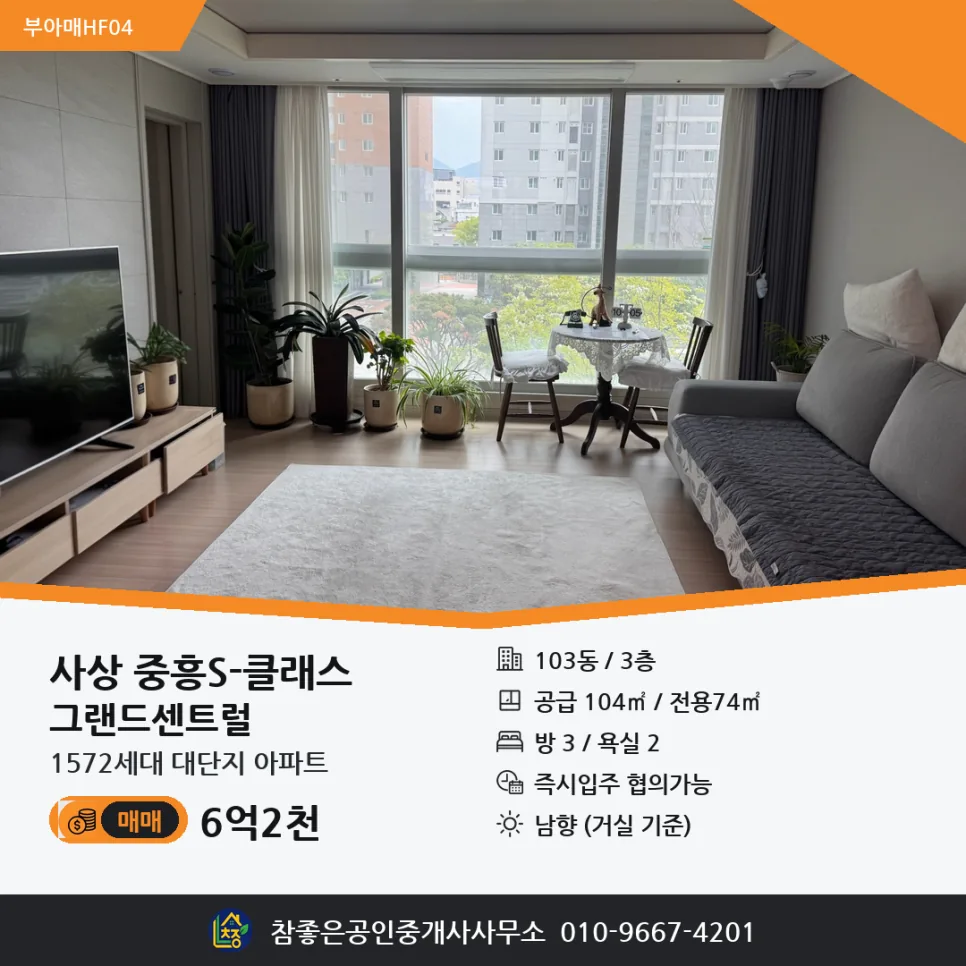
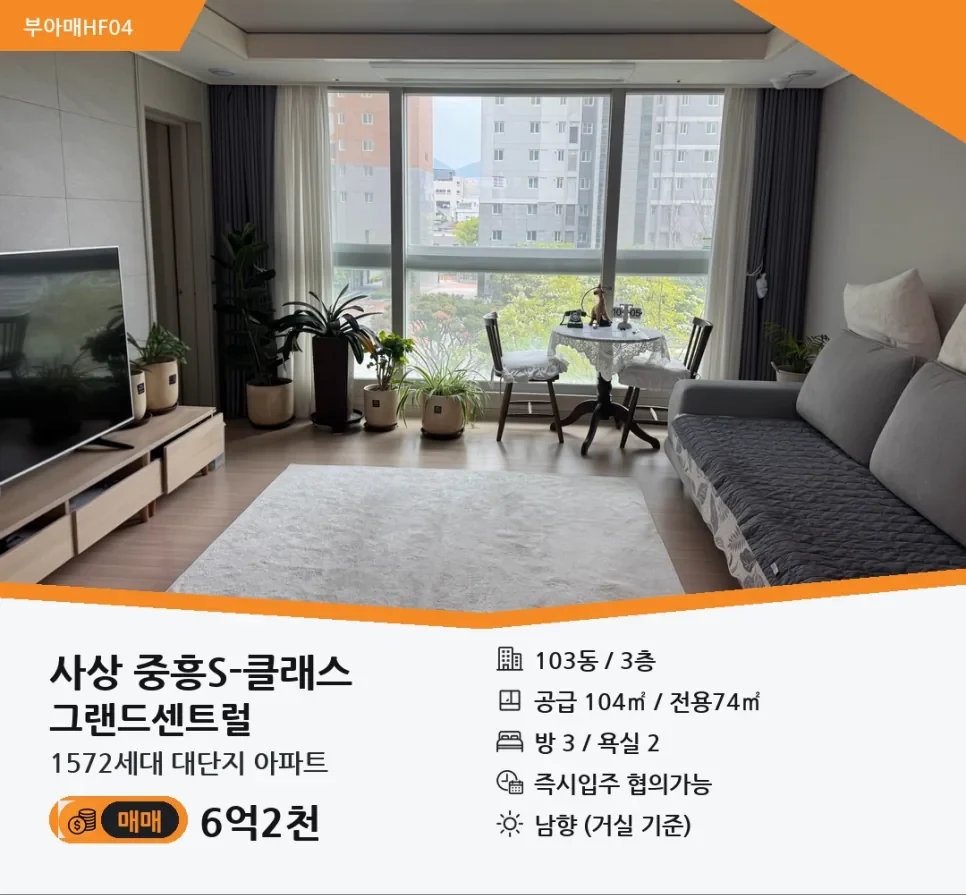
feat: 블로그 최신순 정렬 및 6개 페이징 추가, 매물 썸네일 하단 중복 검은 바 크롭 및 카드 중복 스펙 칩 삭제

diff --git a/main.js b/main.js
@@ -39,7 +39,9 @@
     activeReviewCat: 'all',
     activeBlogTab: 'all',
     propCurrentPage: 1,
-    propPageSize: 6
+    propPageSize: 6,
+    blogCurrentPage: 1,
+    blogPageSize: 6
   };
 
   // SVG Helper Icons
@@ -338,11 +340,6 @@
                 ${item.price}
                 <span class="prop-price-sub">${item.floor || ''}</span>
               </div>
-              <div class="prop-quick-specs">
-                <span class="spec-chip">📐 ${item.area}</span>
-                ${item.rooms ? `<span class="spec-chip">🚪 ${item.rooms}</span>` : ''}
-                ${item.direction ? `<span class="spec-chip">🧭 ${item.direction.split('(')[0].trim()}</span>` : ''}
-              </div>
               ${item.agentNickname ? `
                 <div class="prop-card-agent-badge">
                   <span>🏷 담당: <strong>${item.agentNickname}</strong></span>
@@ -434,7 +431,7 @@
     }).join('');
   }
 
-  // 2. Render Naver Blog Posts (썸네일 + 요약내용 + 태그 및 카테고리 필터링)
+  // 2. Render Naver Blog Posts (썸네일 + 요약내용 + 태그 및 카테고리 필터링 + 6개 페이징)
   function renderBlogPosts() {
     if (!blogGrid) return;
 
@@ -443,7 +440,51 @@
       posts = posts.filter(p => p.section === state.activeBlogTab);
     }
 
-    blogGrid.innerHTML = posts.map(post => `
+    // 업로드 최신순(날짜 및 logNo 역순) 정렬
+    posts = [...posts].sort((a, b) => (b.date || '').localeCompare(a.date || ''));
+
+    const totalPages = Math.ceil(posts.length / state.blogPageSize) || 1;
+    if (state.blogCurrentPage > totalPages) {
+      state.blogCurrentPage = 1;
+    }
+
+    // Render Blog Pagination Controls
+    const blogPagination = document.getElementById('blogPagination');
+    if (blogPagination) {
+      if (totalPages <= 1) {
+        blogPagination.innerHTML = '';
+      } else {
+        let pagesHtml = '';
+        pagesHtml += `
+          <button class="page-nav-btn prev" ${state.blogCurrentPage === 1 ? 'disabled' : ''} onclick="window.changeBlogPage(${state.blogCurrentPage - 1})" aria-label="이전 페이지">
+            <svg class="icon" viewBox="0 0 24 24" style="width:16px; height:16px;"><polyline points="15 18 9 12 15 6"/></svg>
+            <span>이전</span>
+          </button>
+        `;
+
+        for (let p = 1; p <= totalPages; p++) {
+          pagesHtml += `
+            <button class="page-num-btn ${p === state.blogCurrentPage ? 'active' : ''}" onclick="window.changeBlogPage(${p})" aria-label="${p}페이지">
+              ${p}
+            </button>
+          `;
+        }
+
+        pagesHtml += `
+          <button class="page-nav-btn next" ${state.blogCurrentPage === totalPages ? 'disabled' : ''} onclick="window.changeBlogPage(${state.blogCurrentPage + 1})" aria-label="다음 페이지">
+            <span>다음</span>
+            <svg class="icon" viewBox="0 0 24 24" style="width:16px; height:16px;"><polyline points="9 18 15 12 9 6"/></svg>
+          </button>
+        `;
+
+        blogPagination.innerHTML = pagesHtml;
+      }
+    }
+
+    const startIdx = (state.blogCurrentPage - 1) * state.blogPageSize;
+    const visiblePosts = posts.slice(startIdx, startIdx + state.blogPageSize);
+
+    blogGrid.innerHTML = visiblePosts.map(post => `
       <article class="blog-card" onclick="window.open('${post.link}', '_blank')" role="link" tabindex="0" aria-label="${post.title}">
         <div class="blog-thumb-box">
           <img src="${post.thumbnail}" alt="${post.title}" class="blog-thumb-img" loading="lazy">
@@ -556,6 +597,15 @@
     const section = document.getElementById('propertiesSection');
     if (section) {
       section.scrollIntoView({ behavior: 'smooth' });
+    }
+  };
+
+  window.changeBlogPage = function (pageNum) {
+    state.blogCurrentPage = pageNum;
+    renderBlogPosts();
+    const blogSection = document.getElementById('blog');
+    if (blogSection) {
+      blogSection.scrollIntoView({ behavior: 'smooth' });
     }
   };
   window.toggleLike = function (propId) {
@@ -981,6 +1031,7 @@
         document.querySelectorAll('.blog-tab-btn').forEach(b => b.classList.remove('active'));
         btn.classList.add('active');
         state.activeBlogTab = btn.getAttribute('data-blog-tab') || 'all';
+        state.blogCurrentPage = 1;
         renderBlogPosts();
       });
     });

diff --git a/index.html b/index.html
@@ -1101,6 +1101,9 @@
         <!-- Rendered via app.js -->
       </div>
 
+      <!-- Blog Pagination Controls (1, 2, 3 페이징) -->
+      <div class="prop-pagination-container" id="blogPagination" style="margin-top: 32px; margin-bottom: 24px;"></div>
+
       <!-- Blog Visit CTA -->
       <div class="blog-cta-box">
         <div>

diff --git a/style.css b/style.css
@@ -895,7 +895,7 @@ img {
 .prop-thumb-box {
   position: relative;
   width: 100%;
-  aspect-ratio: 1 / 1;
+  aspect-ratio: 966 / 895;
   overflow: hidden;
   background-color: var(--surface-alt);
 }
